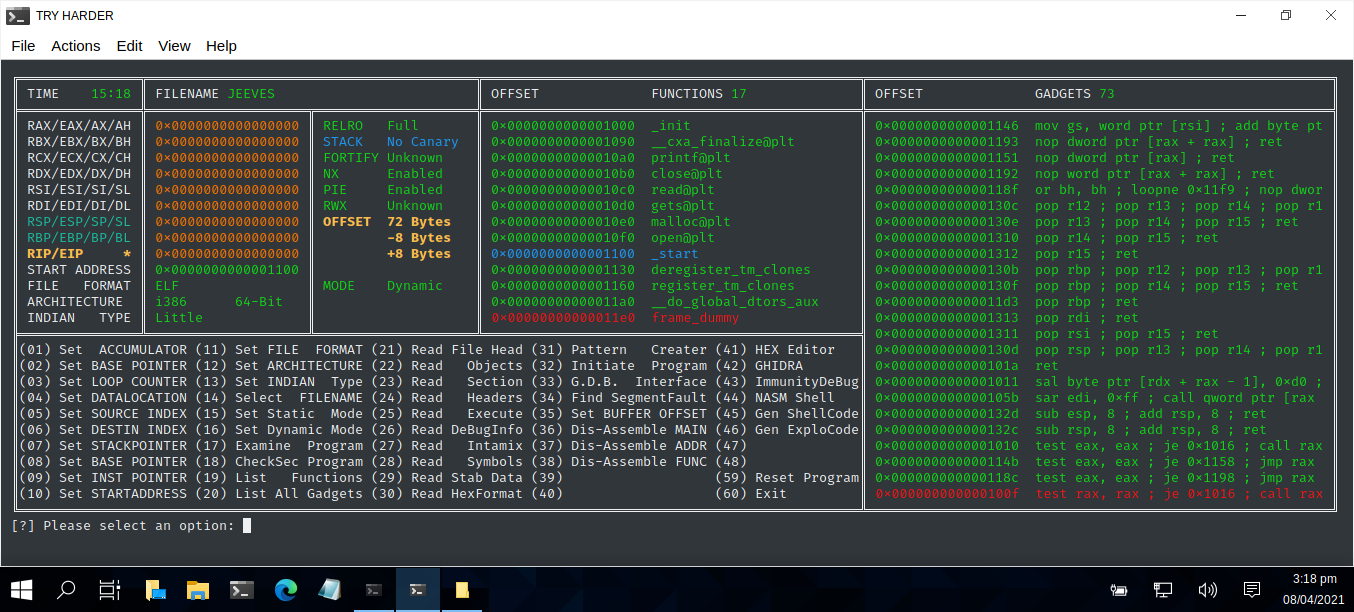
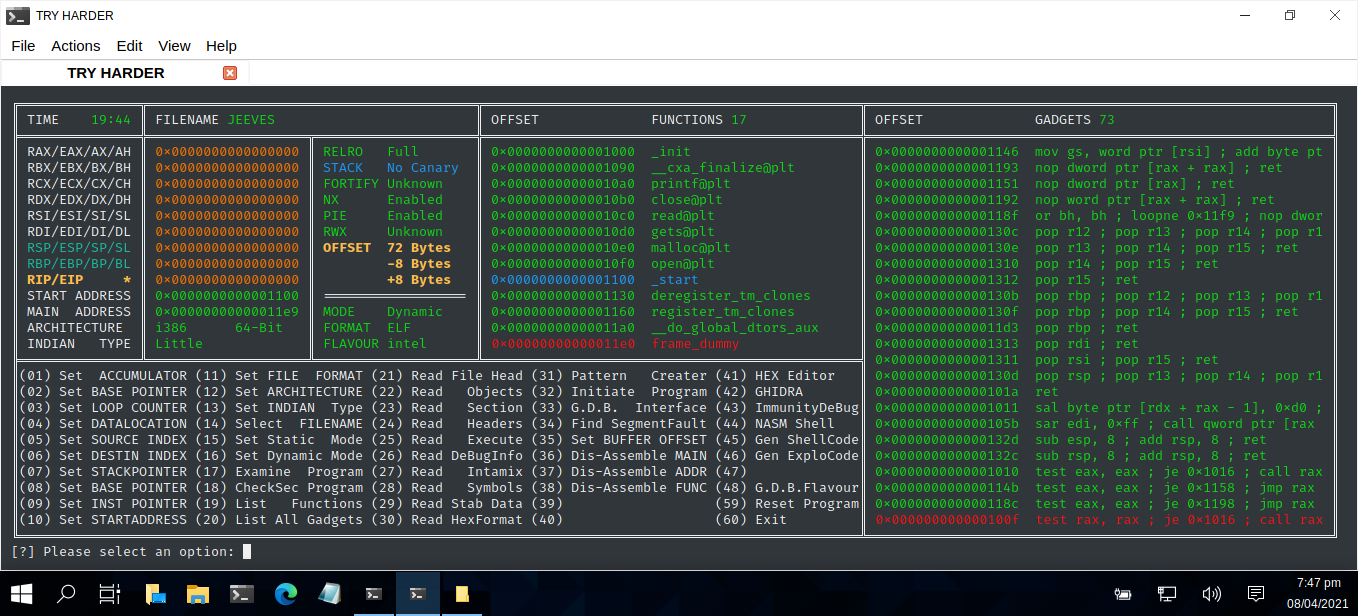
Try harder

diff --git a/BinMaster.py b/BinMaster.py
@@ -350,7 +350,9 @@ def dispMenu():
       print(colored(SRT,colour7), end=' ')
    else:
       print(colored(SRT,colour6), end=' ')
-   print('\u2551' + " " + " "*COL1 + " " +  '\u2551', end=' ')
+      
+   print('\u2551' + " " + "="*COL1 + " " +  '\u2551', end=' ')
+   
    if SRT.rstrip(" ") in ADDR[9]:
       print(colored(ADDR[9],colour3), end=' ')
    else:
@@ -359,11 +361,11 @@ def dispMenu():
    print(colored(GADD[9],colour6), end=' ')
    print('\u2551')   
 
-   print('\u2551' + " FILE   FORMAT " + '\u2551', end=' ')
-   if COM[:5] == "EMPTY":
-      print(colored(COM,colour7), end=' ')
+   print('\u2551' + " MAIN  ADDRESS " + '\u2551', end=' ')
+   if MAIN[:18] == "0x0000000000000000":
+      print(colored(MAIN,colour7), end=' ')
    else:
-      print(colored(COM,colour6), end=' ')
+      print(colored(MAIN,colour6), end=' ')
    print('\u2551', end=' ')
    
    if MODE == "MODE    Unknown    ":
@@ -393,8 +395,18 @@ def dispMenu():
          print(colored(BIT[:8],colour6), end=' ')
       else:
          print(colored(BIT[:8],colour7), end=' ')
-      
-   print('\u2551' + " " + " "*COL1 + " " +  '\u2551', end=' ')
+   
+   print('\u2551', end=' ')
+   if COM[:1] != " ":
+      print(colored("FORMAT ",colour6), end=' ')
+      print(colored(COM[:3],colour6), end=' ')
+      print("      ", end=' ')
+   else:
+      print(colored("FORMAT ",colour7), end=' ')
+      print(colored(COM[:3],colour7), end=' ')   
+      print("      ", end=' ')
+   print('\u2551', end=' ')
+   
    if SRT.rstrip(" ") in ADDR[11]:
       print(colored(ADDR[11],colour3), end=' ')
    else:
@@ -408,7 +420,13 @@ def dispMenu():
       print(colored(IND,colour7), end=' ')
    else:
       print(colored(IND,colour6), end=' ')
-   print('\u2551' + " " + " "*COL1 + " " +  '\u2551', end=' ')   
+   
+   print('\u2551', end=' ')   
+   print(colored("FLAVOUR", colour6), end=' ')
+   print(colored(flavour[:5],colour6),end=' ' )
+   print("    ", end=' ')
+   print('\u2551', end=' ')   
+   
    if SRT.rstrip(" ") in ADDR[12]:
       print(colored(ADDR[12],colour3), end=' ')
    else:
@@ -431,7 +449,7 @@ def options():
    print('\u2551' + "(05) Set SOURCE INDEX (15) Set Static  Mode (25) Read   Execute (35) Set BUFFER OFFSET (45) Gen ShellCode" + '\u2551', end=' '); print(colored(GADD[18],colour6), end=' '); print('\u2551')
    print('\u2551' + "(06) Set DESTIN INDEX (16) Set Dynamic Mode (26) Read DeBugInfo (36) Dis-Assemble MAIN (46) Gen ExploCode" + '\u2551', end=' '); print(colored(GADD[19],colour6), end=' '); print('\u2551')
    print('\u2551' + "(07) Set STACKPOINTER (17) Examine  Program (27) Read   Intamix (37) Dis-Assemble ADDR (47)              " + '\u2551', end=' '); print(colored(GADD[20],colour6), end=' '); print('\u2551')
-   print('\u2551' + "(08) Set BASE POINTER (18) CheckSec Program (28) Read   Symbols (38) Dis-Assemble FUNC (48)              " + '\u2551', end=' '); print(colored(GADD[21],colour6), end=' '); print('\u2551')
+   print('\u2551' + "(08) Set BASE POINTER (18) CheckSec Program (28) Read   Symbols (38) Dis-Assemble FUNC (48) G.D.B.Flavour" + '\u2551', end=' '); print(colored(GADD[21],colour6), end=' '); print('\u2551')
    print('\u2551' + "(09) Set INST POINTER (19) List   Functions (29) Read Stab Data (39)                   (59) Reset Program" + '\u2551', end=' '); print(colored(GADD[22],colour6), end=' '); print('\u2551')
    print('\u2551' + "(10) Set STARTADDRESS (20) List All Gadgets (30) Read HexFormat (40)                   (60) Exit         " + '\u2551', end=' ')
    if GADD[24] != "":
@@ -531,6 +549,8 @@ RW = spacePadding("RWX     Unknown", COL1)
 funcNum = spacePadding(" ",7)
 gadgNum = spacePadding(" ",7)
 
+flavour = "intel"
+
 # -------------------------------------------------------------------------------------
 # AUTHOR  : Terence Broadbent                                                    
 # CONTRACT: GitHub                                                               
@@ -571,6 +591,7 @@ ARC = linecache.getline("ascii.tmp", 12).rstrip("\n")
 FIL = linecache.getline("ascii.tmp", 13).rstrip("\n")
 SRT = linecache.getline("ascii.tmp", 14).rstrip("\n")
 INS = "0x0000000000000000"
+MAIN = "0x0000000000000000"
 
 RAX = spacePadding(RAX, COL1)
 COM = spacePadding(COM, COL1)
@@ -958,8 +979,8 @@ while True:
             print("Debugging information built in...")
          else:
             print("Debugging information has been removed...")
-         if "Intel" in binary:
-            print("Consider switching the disassembly style to Intel - 'set disassembly-flavor intel'...")
+         if "intel" in binary:
+            print("Consider switching the disassembly style to intel - 'set disassembly-flavor intel'...")
       prompt()            
 
 # ------------------------------------------------------------------------------------- 
@@ -1202,6 +1223,11 @@ while True:
          print(colored("[*] Examining file " + localDir + "/" + FIL.rstrip(" ") + "...", colour3))
          command("objdump" + " -d " + localDir + "/" + FIL.rstrip(" ") + " > exec.tmp")
          catsFile("exec.tmp")
+         command("cat exec.tmp | grep ' <main>' > main.tmp ")
+         with open("main.tmp","r") as main:
+            null = main.readline()
+            if null != "":
+               MAIN = spacePadding("0x" + main.readline().split(" ")[0], COL1)
       prompt() 
    
 # ------------------------------------------------------------------------------------- 
@@ -1339,7 +1365,10 @@ while True:
          print("[-] Filename not specified...")
       else:
          print(colored("[*] Editing filename " + localDir + "/" + FIL.rstrip(" ") + "...", colour3))
-         command("gdb -q " + localDir + "/" + FIL.rstrip(" "))
+         command("echo 'set disassembly-flavor " + flavour + "' > command.tmp")
+         command("echo 'set follow-fork-mode child' >> command.tmp")
+         command("gdb -q " + localDir + "/" + FIL.rstrip(" ") +" -x command.tmp")         
+#         command("gdb -q " + localDir + "/" + FIL.rstrip(" "))
       prompt()
       
 # ------------------------------------------------------------------------------------- 
@@ -1390,7 +1419,7 @@ while True:
 # -------------------------------------------------------------------------------------
 
    if selection == '36':
-      command("echo 'set disassembly-flavor intel' > command.tmp")
+      command("echo 'set disassembly-flavor " + flavour + "' > command.tmp")
       command("echo 'set follow-fork-mode child' >> command.tmp")
       command("echo 'break main' >> command.tmp")
       command("echo 'run' >> command.tmp")
@@ -1410,7 +1439,7 @@ while True:
    if selection == '37':
       address = input("[?] Please enter address value: ")
       if address != "":
-         command("echo 'set disassembly-flavor intel' > command.tmp")
+         command("echo 'set disassembly-flavor " + flavour + "' > command.tmp")
          command("echo 'set follow-fork-mode child' >> command.tmp")      
          command("echo 'break main' >> command.tmp")
          command("echo 'run' >> command.tmp")
@@ -1429,7 +1458,7 @@ while True:
 
    if selection == '38':
       function = input("[?] Please enter function name: ")
-      command("echo 'set disassembly-flavor intel' > command.tmp")
+      command("echo 'set disassembly-flavor " + flavour + "' > command.tmp")
       command("echo 'set follow-fork-mode child' >> command.tmp")      
       command("echo 'break main' >> command.tmp")
       command("echo 'run' >> command.tmp")
@@ -1557,24 +1586,28 @@ while True:
          command("echo 'from pwn import *' >> " + localDir + "/exploit.py")
          command("echo '' >> " + localDir + "/exploit.py")
          command("echo 'context.clear()' >> " + localDir + "/exploit.py")
-         command("echo 'context.log_level=\"debug\"' >> " + localDir + "/exploit.py")
+         command("echo 'context.log_level = \"debug\"' >> " + localDir + "/exploit.py")
+         command("echo 'contect.binary = \"./" + FIL.rstrip(" ") + "\"' >> " + localDir + "/exploit.py")         
          command("echo '' >> " + localDir + "/exploit.py")         
          if COM[:3] == "ELF":
-            command("echo 'context.os=\"linux\"' >> " + localDir + "/exploit.py")
+            command("echo '#context.os = \"linux\"' >> " + localDir + "/exploit.py")
          else:
-            command("echo 'context.os=\"windows\"' >> " + localDir + "/exploit.py")
-         command("echo 'context.arch=\"" + ARC.rstrip(" ") + "\"' >> " + localDir + "/exploit.py")
-         command("echo 'context.bits=\"" + BIT[:2] + "\"' >> " + localDir + "/exploit.py")
-         command("echo 'context.endian = \"" + IND.rstrip(" ") + "\"' >> " + localDir + "/exploit.py")
+            command("echo '#context.os = \"windows\"' >> " + localDir + "/exploit.py")
+         command("echo '#context.arch = \"" + ARC.rstrip(" ") + "\"' >> " + localDir + "/exploit.py")
+         command("echo '#context.bits = \"" + BIT[:2] + "\"' >> " + localDir + "/exploit.py")
+         command("echo '#context.endian = \"" + IND.rstrip(" ") + "\"' >> " + localDir + "/exploit.py")
          command("echo '' >> " + localDir + "/exploit.py")
          command("echo 'try:' >> " + localDir + "/exploit.py")
          command("echo '   s = remote(\"10.10.10.10\", 1010)' >> " + localDir + "/exploit.py")
          command("echo 'except:' >> " + localDir + "/exploit.py")
          command("echo '   s = process(\"./" + FIL.rstrip(" ") + "\")'  >> " + localDir + "/exploit.py")
          command("echo '' >> " + localDir + "/exploit.py")
+         command("echo 'start = " + SRT.rstrip(" ") + "' >> " + localDir + "/exploit.py")
+         command("echo 'main = " + MAIN.rstrip(" ") + "' >> " + localDir + "/exploit.py")
+         command("echo '' >> " + localDir + "/exploit.py")
          command("echo 'buffers   = \"a\" * " + OFF.rstrip(" ") + "' >> " + localDir + "/exploit.py")
          command("echo 'integer   = \"a\" * 4' >> " + localDir + "/exploit.py")
-         if ARC[:2] == "64":
+         if BIT[:2] == "64":
             command("echo 'pointer   = \"a\" * 8' >> "+ localDir + "/exploit.py")
          else:
             command("echo 'pointer   = \"a\" * 4' >> "+ localDir + "/exploit.py")         
@@ -1589,6 +1622,30 @@ while True:
          command("echo 's.close()' >> " + localDir + "/exploit.py")
          print(colored("[*] Python exploit template sucessfully created...", colour3))
          prompt()         
+         
+# ------------------------------------------------------------------------------------- 
+# AUTHOR  : Terence Broadbent                                                    
+# CONTRACT: GitHub
+# Version : TRY HARDER                                                             
+# Details : Menu option selected - set disassembly-flavor
+# Modified: N/A
+# -------------------------------------------------------------------------------------
+
+   if selection == '48':
+      bak = flavour
+      flavour = input("[?] Please enter disassembly flavor (att or intel): ")
+      if flavour == "":
+         flavour = bak
+      else:
+         if (flavour.upper() != "ATT") or (flavour.upper() != "INTEL"):
+            flavour = bak
+      if flavour.upper() == "ATT":
+         flavour = "att"
+      if flavour.upper() == "INTEL":
+         flavour = "intel"
+      flavour = spacePadding(flavour, 5)
+      print(colored("[*] Disassenbly flavor updated...", colour3))
+      prompt()
       
 # ------------------------------------------------------------------------------------- 
 # AUTHOR  : Terence Broadbent                                                    
@@ -1627,6 +1684,7 @@ while True:
       RW = spacePadding("RWX     Unknown", COL1)
       colourx = "yellow"
       MODE = "MODE    Unknown    "
+      flavour = "intel"
       prompt()
       
 # ------------------------------------------------------------------------------------- 

diff --git a/README.md b/README.md
@@ -21,7 +21,7 @@ Usage: python3 BinMaster.py
 
 | LANGUAGE  | FILENAME     | MD5 Hash                         | DESCRIPTION    | VERSION    |
 |------     |------        | -------                          | ------         | ----       |
-| python3   | BinMAster.py | 8ae4db45f59447bc60bb30de202b7204 | Command Centre | Try Harder |
+| python3   | BinMAster.py | 8a065b9bc1afc28e08fd6a1da07fdbd4 | Command Centre | Try Harder |
 
 
 A python script file to forensically examine binary files for buffer-overflows.
